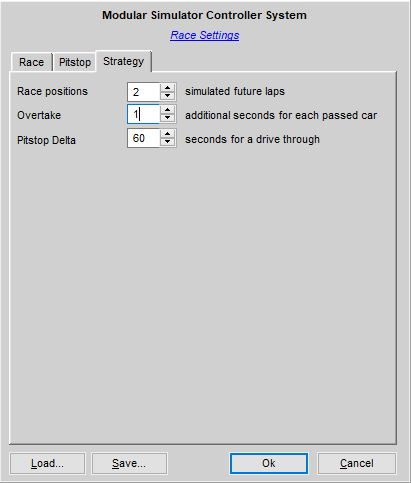
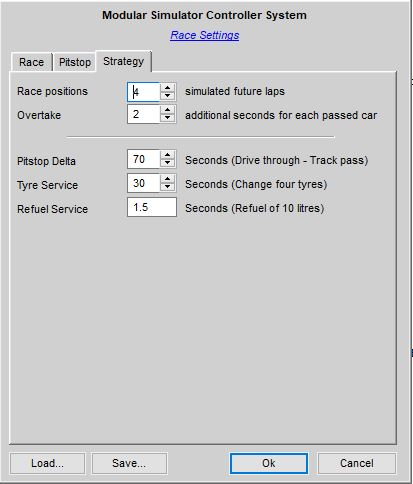
Documentation Update

diff --git a/Docs/Virtual Race Strategist.md b/Docs/Virtual Race Strategist.md
@@ -78,6 +78,25 @@ The following statistical models are currently implemented:
 
      Using the position data gathered from the simulation game, Cato builds a knowledge of the pace of the various drivers. As a simple application of this knowledge, Cato can give you information about the current race positions and lap times of your opponents and the gaps between the cars. A more complex application will be a forecast of the race positions in a given time frame. This knowledge can be used for strategy development, for example to plan an undercut.
 
+## Racing with Cato
+
+Using Cato during a race is easy. You can activate the assitant anytime using the activation phrase and ask then for information about current lap times, current and possible future standings and so on. Normally, Cato will not contact you on its own like Jona does, but Cato will also collaberate with Jona, when it is time for a pitstop. In this situation, Cato might suggest a specific lap for the next pitstop to optimize your race position after the stop.
+
+### Race Settings
+
+Cato shares a lot of settings with Jona. Therefore consult the documentation on the [race settings](https://github.com/SeriousOldMan/Simulator-Controller/wiki/Virtual-Race-Engineer#race-settings) in the documentation for Jona for the general use of the settings tool.
+
+#### Tab *Strategy*
+
+You will find settings for the race strategy analysis and simulation in the third tab of the settings tool.
+
+![](https://github.com/SeriousOldMan/Simulator-Controller/blob/main/Docs/Images/Race%20Settings%203.JPG)
+
+Using the fields in the first group, you can customize the projection of current race positions into a model of future race standings. Cato will calculate this model each lap and will store the future standings for a given number of laps in the working memory and use them for strategy decisions. You can control the number of laps calculated for future standings by changing the value in the field *Race positions*. Greater numbers will yield better predictions, but take care, it might cost a lot of computing power.
+With the second field, *Overtake Delta*, you specify the number of seconds as time discount for each overtake for the passing and for the passed car.
+
+The second group of fields specify the time required for several pitstop activities. With the value of *Pitstop Delta*, you supply the difference time needed for a normal pitstop (time for pit in and pit out but without any service time minus the time to pass the pit area on the track, i.e. Drive through vs. Drive by), The fields below specify the time required for the various pit services, like changing tyres, refueling, and so on.
+
 ## Technical information
 
 Cato uses the same AI kernel as Jona. In fact, large parts of the basic rule set is identical for both assistants. Therefore, you can consult the [technical information](https://github.com/SeriousOldMan/Simulator-Controller/wiki/Virtual-Race-Engineer#technical-information) of Jona, if you want to dig deeper into the inner workings.

diff --git a/Docs/Installation & Configuration.md b/Docs/Installation & Configuration.md
@@ -235,6 +235,8 @@ Similar as with the tab for the *Race Engineer*, the dynamic behaviour of the [V
 
 Choose the simulator with the topmost dropdown menu, before you change one of the settings beneath. Then you can customize some parts of the statistical algorithms of Cato, the Virtual Race Strategist. The first field defines the number of laps, Cato uses to populate its data collection. During this period, most of the functions of Cato are not available, but the predictions of dynamic values will be much more precise afterwards. The second field, *Statistical Window*, is also quite important. It defines the number of recent laps, which are used for each and every statistical calculation, for example the standard deviation of tyre pressures. The next field, *Damping Factor*, can be used to influence the calculation weight for each of those laps.
 
+Note: The settings for loading and saving the *Race Settings* specified on *Race Engineer* tab apply for the Virtual Race Strategist as well.
+
 ## Themes Editor
 
 This special editor, which can be opened from the *General* tab of the configuration tool, allows you to define a combination of pictures or animation files together with a sound file. This combination is called a splash theme and will be used by the startup sequence. You may have a Rallye theme for your favorite Rallye session, or an F1 theme, or even some cinematic impressions from various airplanes in the sky, while waiting for your flight simulator to startup.

diff --git a/Docs/Updates.md b/Docs/Updates.md
@@ -52,8 +52,8 @@ Note: Some of you might want to have more control. No problem. All the files in 
 Please take note of the following:
 
   - The "Race Engineer.settings" file has been renamed to "Race.settings". The automated update procedure will take care of the renaming in all locations, even in the local setup database.
-  - The controller actions "openRaceEngineerSettings" and "openRaceEngineerSetups" have been renamed to "openRaceAssistantSettings" and "openSetupDatabase" respectively. If you have used them in your configuration, you must rename them manually.
-
+  - The controller actions "openRaceEngineerSettings" and "openRaceEngineerSetups" have been renamed to "openRaceAssistantSettings" and "openSetupDatabase" respectively. If you have used them in your configuration, you must rename them manually using the [configuration tool](https://github.com/SeriousOldMan/Simulator-Controller/wiki/Installation-&-Configuration#configuration).
+  - The application "Race Engineer Settings" has been renamed to "Race Settings" and the application "Race Engineer Setups" has been renamed to "Setup Database". If you have referenced the *outside* of Simulator Controller, for example in a StreamDeck configuration, please take care of the renaming.
 
 ***
 

diff --git a/Docs/Releases.md b/Docs/Releases.md
@@ -3,13 +3,12 @@
   1. Bugfixes, as always
   2. Documentation updates, as always
   3. New Assetto Corsa Competizione data acquisition for Cato, the Virtual Race Strategist.
-  4. Full propabilistic model for future race positions. You can ask Cato for future race standings.
-  5. New settings for the Race Strategist.
+  4. Full propabilistic model for future race positions. You can ask Cato for future race standings (Example: "What will be my position in 4 laps").
+  5. New settings for the Virtual Race Strategist in order to customize the standings prediction model. See the ["Strategy" tab](https://github.com/SeriousOldMan/Simulator-Controller/wiki/Virtual-Race-Strategist#tab-strategy) in the "Race Settings" tool for more information.
   6. Renaming of several applications:
      - "Race Engineer Settings" => "Race Settings"
 	 - "Race Engineer Setups" => "Setup Database"
   7. Renamed "Race Engineer.settings" => "Race.settings"
-  8. Added new "Strategy" tab in the "Race Settings" tool
 
 ## 3.1.2-release 06/18/21
 
